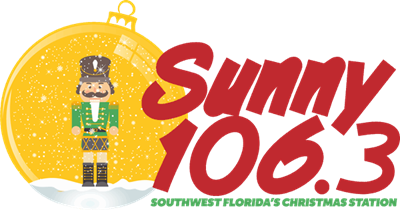
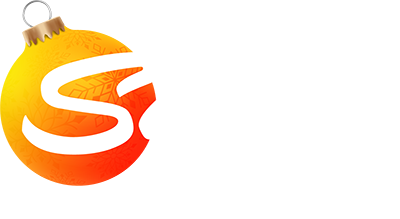
TEXMAS is near

diff --git a/web/stations/stations-america.js b/web/stations/stations-america.js
@@ -1287,7 +1287,7 @@ var stations = {
         },
         {
             name: "KVMI 1270",
-            logo: "stations/images-america/fresno/My 97.5.png",
+            logo: "stations/images-america/fresno/My 97.5_christmas.png",
             url: "https://ats-radio.herokuapp.com/index.php?ats=https://live.wostreaming.net/manifest/momentum-kvmifmaac-ibc2"
         },
         {
@@ -5107,7 +5107,7 @@ var stations = {
         },
         {
             name: "KOOL 99.1",
-            logo: "stations/images-america/eugene/KOOL 99.1.png",
+            logo: "stations/images-america/eugene/KOOL 99.1_christmas.png",
             url: "https://us9.maindigitalstream.com/ssl/KODZ"
         },
         {
@@ -5990,7 +5990,7 @@ var stations = {
         },
         {
             name: "KVMI 1270",
-            logo: "stations/images-america/fresno/My 97.5.png",
+            logo: "stations/images-america/fresno/My 97.5_christmas.png",
             url: "https://ats-radio.herokuapp.com/index.php?ats=https://live.wostreaming.net/manifest/momentum-kvmifmaac-ibc2"
         },
         {
@@ -17221,7 +17221,7 @@ var stations = {
         },
         {
             name: "BIG 95",
-            logo: "stations/images-america/texas/waco/BIG 95.png",
+            logo: "stations/images-america/texas/waco/BIG 95_christmas.png",
             url: "https://stream.revma.ihrhls.com/zc2365/hls.m3u8"
         },
         {
@@ -22890,7 +22890,7 @@ var stations_c2c = {
         },
         {
             name: "Sunny 106.3",
-            logo: "stations/images-america/c2c/naples_fl/Sunny 106.3.png",
+            logo: "stations/images-america/c2c/naples_fl/Sunny 106.3_christmas.png",
             url: "https://ats-radio.herokuapp.com/index.php?ats=https://playerservices.streamtheworld.com/api/livestream-redirect/WJPTFMAAC_SC"
         },
         {
@@ -23642,7 +23642,7 @@ var stations_c2c = {
         },
         {
             name: "105.5 WDUV",
-            logo: "stations/images-america/c2c/tampa_fl/105.5 WDUV.png",
+            logo: "stations/images-america/c2c/tampa_fl/105.5 WDUV_christmas.png",
             url: "https://ats-radio.herokuapp.com/index.php?ats=https://ad-oom-cmg.streamguys1.com/tam1055/tam1055-sgplayer-aac"
         },
         {
@@ -26501,7 +26501,7 @@ var stations_c2c = {
         },
         {
             name: "LEO 1360",
-            logo: "stations/images-america/c2c/cedar_rapids_ia/LEO 1360.png",
+            logo: "stations/images-america/c2c/cedar_rapids_ia/LEO 1360_christmas.png",
             url: "https://stream.revma.ihrhls.com/zc4744/hls.m3u8"
         },
     ],
@@ -27922,7 +27922,7 @@ var stations_c2c = {
         },
         {
             name: "104.1 The Spot",
-            logo: "stations/images-america/c2c/new_orleans_la/104.1 The Spot.png",
+            logo: "stations/images-america/c2c/new_orleans_la/104.1 The Spot_christmas.png",
             url: "https://stream.revma.ihrhls.com/zc1041/hls.m3u8"
         },
         {
@@ -28407,7 +28407,7 @@ var stations_c2c = {
         },
         {
             name: "104.1 The Spot",
-            logo: "stations/images-america/c2c/new_orleans_la/104.1 The Spot.png",
+            logo: "stations/images-america/c2c/new_orleans_la/104.1 The Spot_christmas.png",
             url: "https://stream.revma.ihrhls.com/zc1041/hls.m3u8"
         },
         {
@@ -30827,7 +30827,7 @@ var stations_c2c = {
         },
         {
             name: "99.9 Lite FM",
-            logo: "stations/images-america/c2c/st_cloud_mn/99.9 Lite FM.png",
+            logo: "stations/images-america/c2c/st_cloud_mn/99.9 Lite FM_christmas.png",
             url: "https://playerservices.streamtheworld.com/api/livestream-redirect/KCMLAAC_SC"
         },
         {
@@ -31846,7 +31846,7 @@ var stations_c2c = {
         },
         {
             name: "KC 102.1",
-            logo: "stations/images-america/c2c/kansascity_mo/KC 102.1.png",
+            logo: "stations/images-america/c2c/kansascity_mo/KC 102.1_christmas.png",
             url: "https://ats-radio.herokuapp.com/index.php?ats=https://ais-sa1.streamon.fm/7042_48k.aac"
         },
         {
@@ -32184,7 +32184,7 @@ var stations_c2c = {
         },
         {
             name: "102.5 KEZK",
-            logo: "stations/images-america/c2c/stlouis_mo/102.5 KEZK.png",
+            logo: "stations/images-america/c2c/stlouis_mo/102.5 KEZK_christmas.png",
             url: "https://ats-radio.herokuapp.com/index.php?ats=https://live.amperwave.net/manifest/audacy-kezkfmaac-imc"
         },
         {
@@ -34473,7 +34473,7 @@ var stations_c2c = {
         },
         {
             name: "K104.7",
-            logo: "stations/images-america/c2c/charlotte_nc/K104.7.png",
+            logo: "stations/images-america/c2c/charlotte_nc/K104.7_christmas.png",
             url: "https://ats-radio.herokuapp.com/index.php?ats=https://playerservices.streamtheworld.com/api/livestream-redirect/WKQCFMAAC_SC"
         },
         {
@@ -36786,7 +36786,7 @@ var stations_c2c = {
         },
         {
             name: "Magic 104.1",
-            logo: "stations/images-america/c2c/oklahoma_city_ok/Magic 104.1.png",
+            logo: "stations/images-america/c2c/oklahoma_city_ok/Magic 104.1_christmas.png",
             url: "https://playerservices.streamtheworld.com/api/livestream-redirect/KMGLFMAAC_SC"
         },
         {
@@ -37452,7 +37452,7 @@ var stations_c2c = {
         },
         {
             name: "Warm 103.3",
-            logo: "stations/images-america/c2c/lancaster_pa/Warm 103.3.png",
+            logo: "stations/images-america/c2c/lancaster_pa/Warm 103.3_christmas.png",
             url: "https://playerservices.streamtheworld.com/api/livestream-redirect/WARMFMAAC_SC"
         },
         {
@@ -37634,7 +37634,7 @@ var stations_c2c = {
         },
         {
             name: "Mix 99.5",
-            logo: "stations/images-america/c2c/philadelphia_pa/Mix 99.5.png",
+            logo: "stations/images-america/c2c/philadelphia_pa/Mix 99.5_christmas.png",
             url: "https://ats-radio.herokuapp.com/index.php?ats=https://playerservices.streamtheworld.com/api/livestream-redirect/WJBRFMAAC_SC"
         },
         {
@@ -38085,7 +38085,7 @@ var stations_c2c = {
         },
         {
             name: "QFM 92.1",
-            logo: "stations/images-america/c2c/scranton_pa/QFM 92.1.png",
+            logo: "stations/images-america/c2c/scranton_pa/QFM 92.1_christmas.png",
             url: "https://ais-sa1.streamon.fm/7248_48k.aac"
         },
         {
@@ -39090,7 +39090,7 @@ var stations_c2c = {
         },
         {
             name: "Z106.3",
-            logo: "stations/images-america/c2c/rapid_city_sd/Z106.3.png",
+            logo: "stations/images-america/c2c/rapid_city_sd/Z106.3_christmas.png",
             url: "http://crystalout.surfernetwork.com:8001/KZLK-FM_MP3"
         },
         {
@@ -40108,7 +40108,7 @@ var stations_c2c = {
         },
         {
             name: "Star 92.9",
-            logo: "stations/images-america/c2c/burlington_vt/Star 92.9.png",
+            logo: "stations/images-america/c2c/burlington_vt/Star 92.9_christmas.png",
             url: "https://ats-radio.herokuapp.com/index.php?ats=http://crystalout.surfernetwork.com:8001/WEZF_MP3"
         },
         {
@@ -45576,7 +45576,7 @@ var stations_canada = {
         },
         {
             name: "Peggy @ 99.1",
-            logo: "stations/images-america/canada/winnipeg/Peggy@99.1.png",
+            logo: "stations/images-america/canada/winnipeg/Peggy@99.1_christmas.png",
             url: "http://live.leanstream.co/CJGVFM"
         },
         {
@@ -47759,7 +47759,7 @@ var stations_alaska = {
         },
         {
             name: "MAGIC 98.9",
-            logo: "stations/images-america/alaska/anchorage/MAGIC 98.9.png",
+            logo: "stations/images-america/alaska/anchorage/MAGIC 98.9_christmas.png",
             url: "https://stream.revma.ihrhls.com/zc3018/hls.m3u8"
         },
         {
